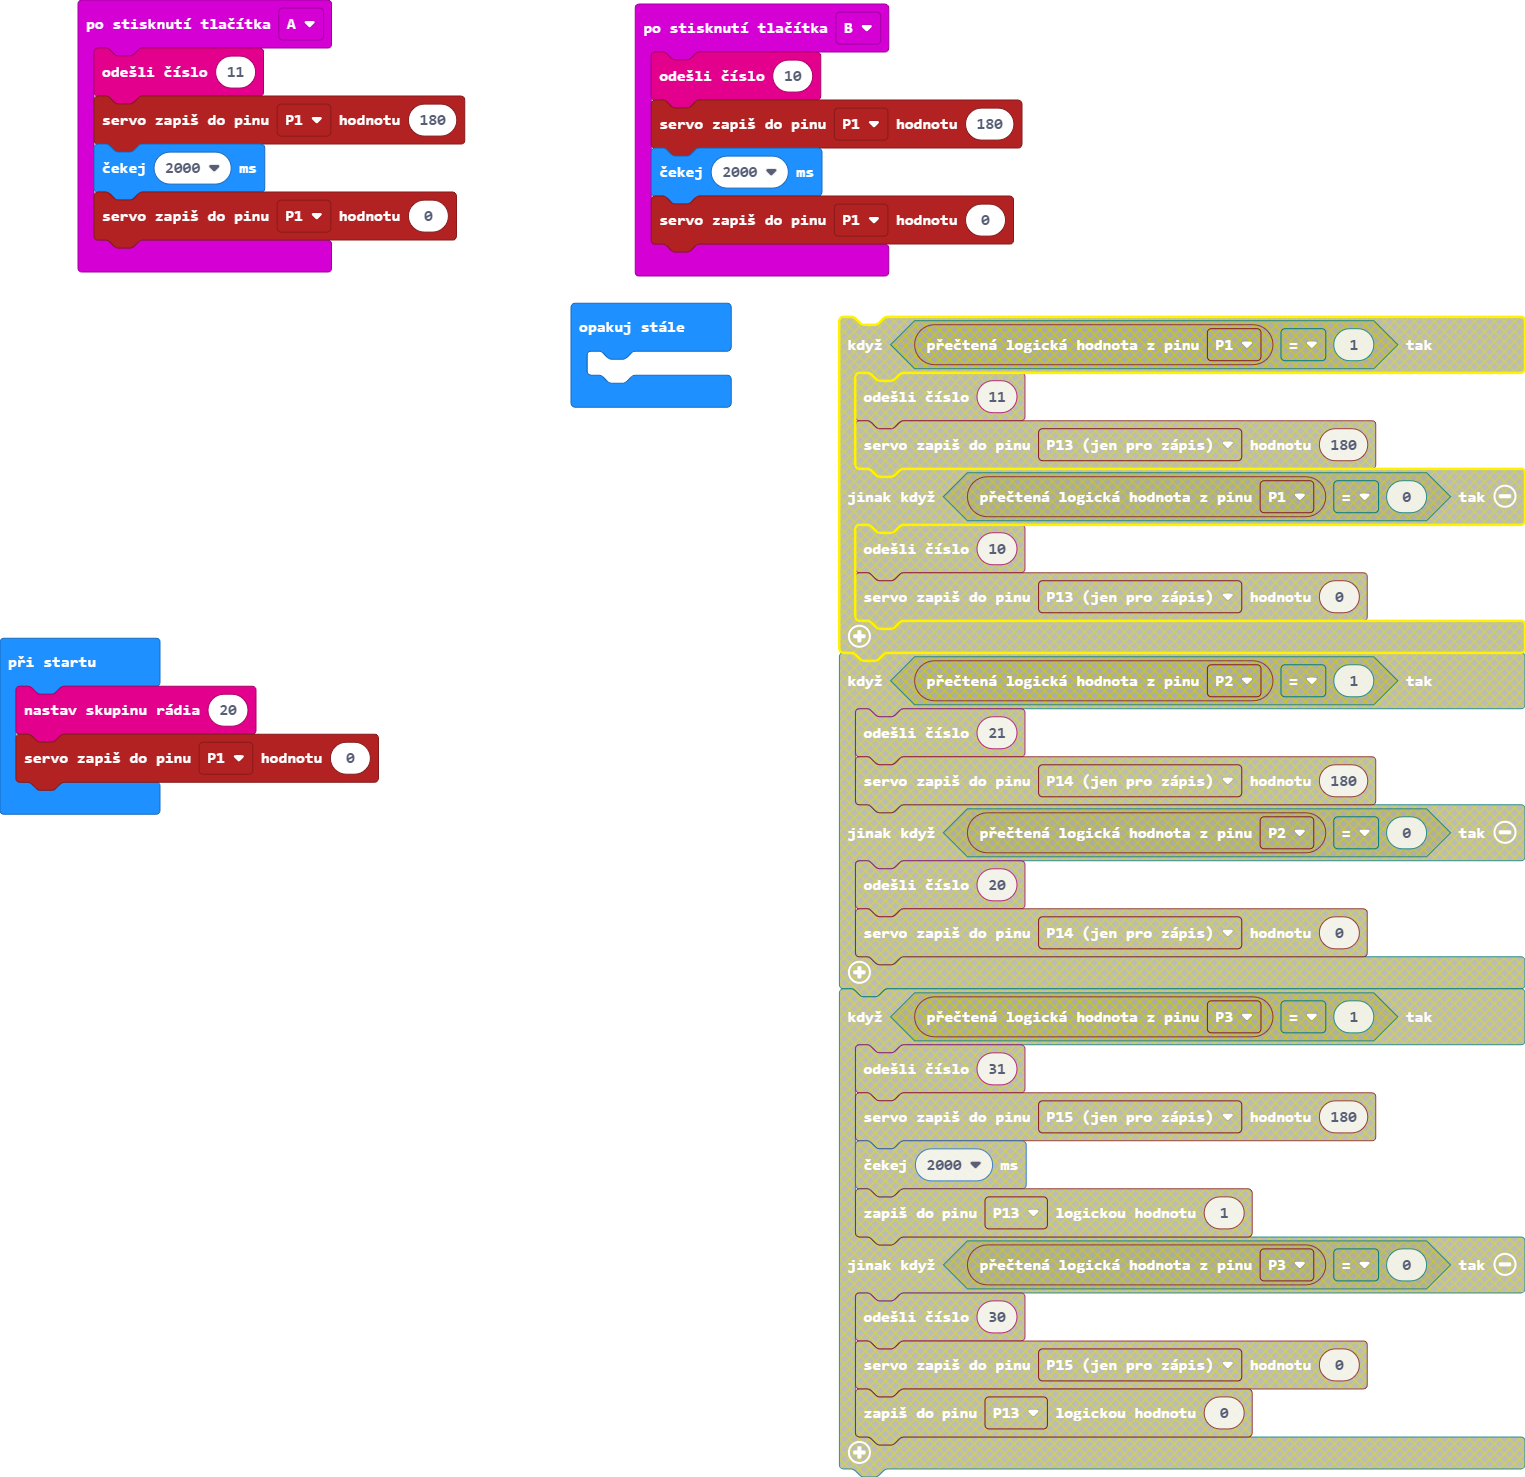
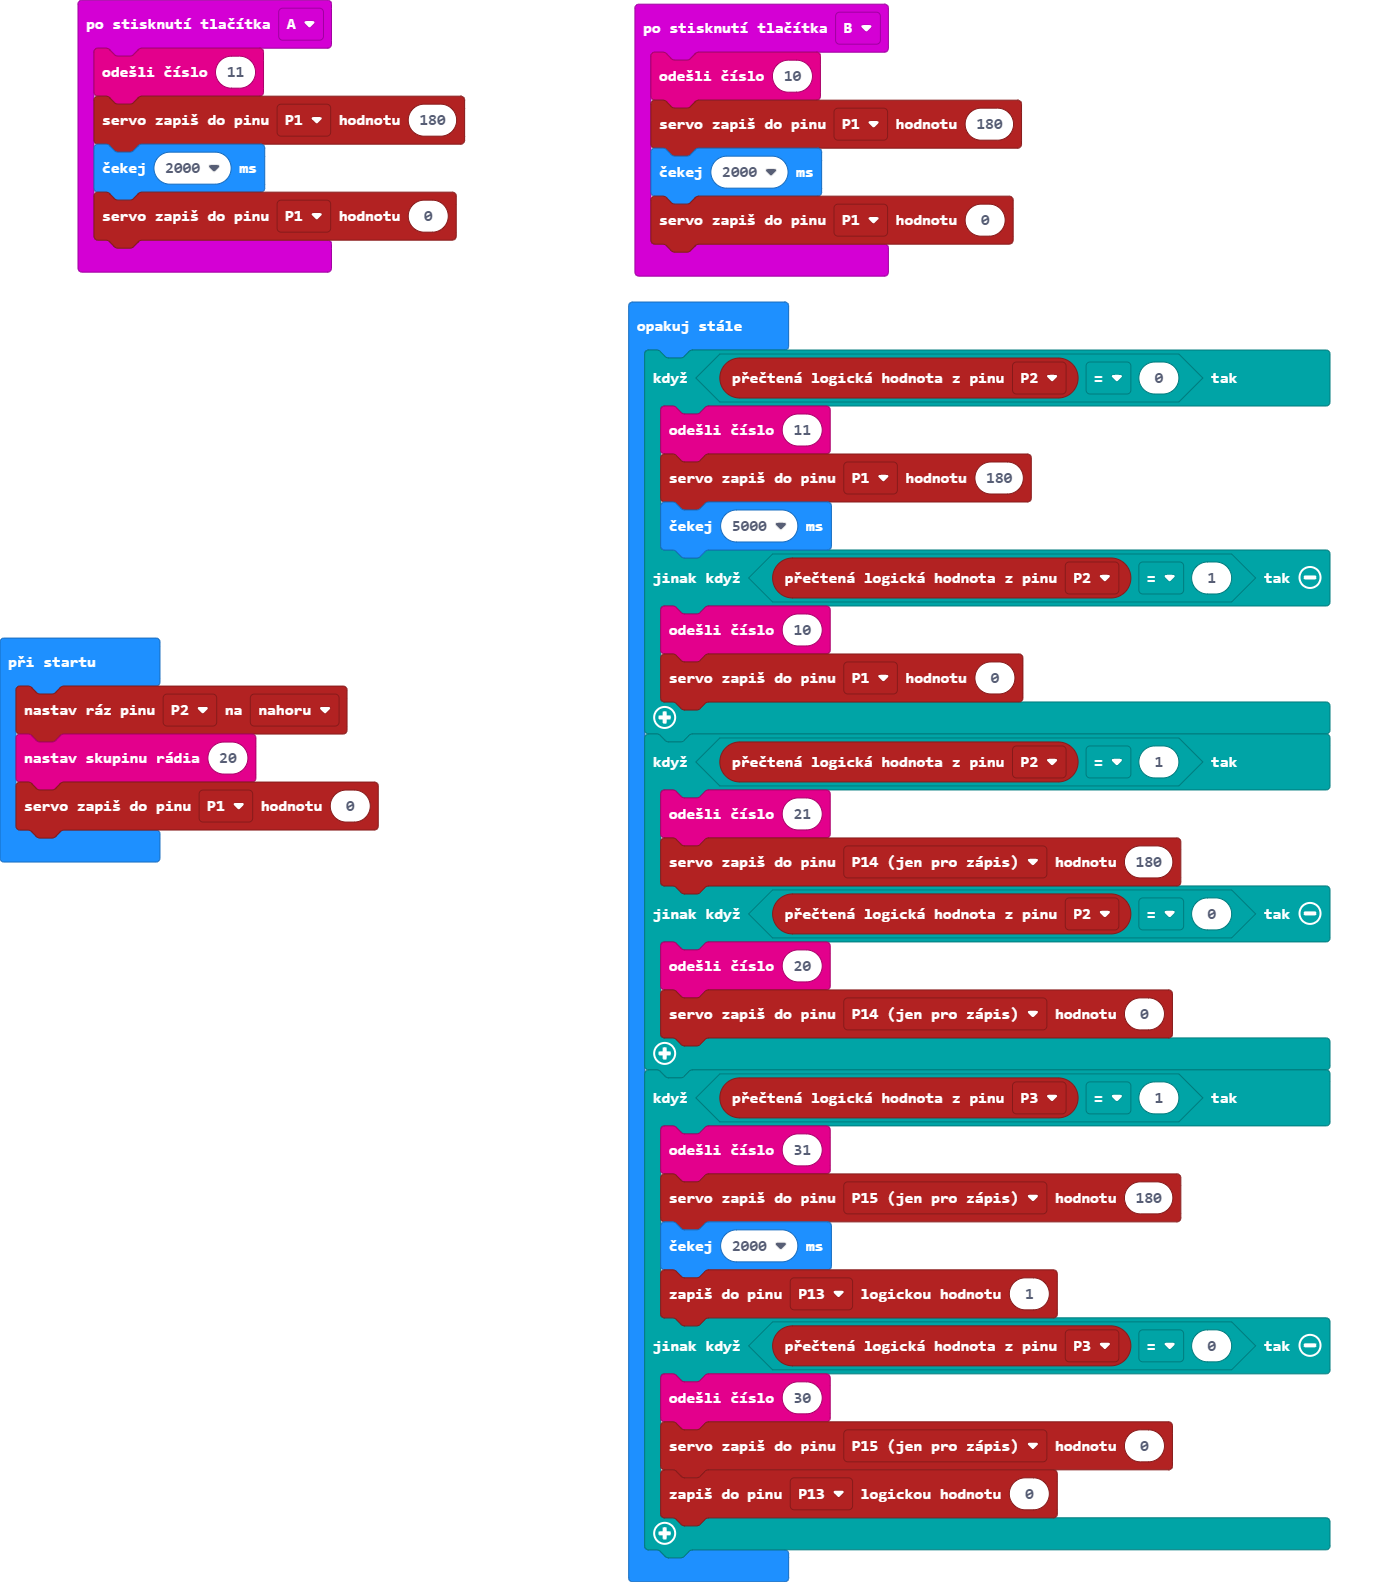
Aktualizovat pxt.json, main.blocks, main.ts

diff --git a/main.ts b/main.ts
@@ -10,8 +10,33 @@ input.onButtonPressed(Button.B, function () {
     basic.pause(2000)
     pins.servoWritePin(AnalogPin.P1, 0)
 })
+pins.setPull(DigitalPin.P2, PinPullMode.PullUp)
 radio.setGroup(20)
 pins.servoWritePin(AnalogPin.P1, 0)
 basic.forever(function () {
-	
+    if (pins.digitalReadPin(DigitalPin.P2) == 0) {
+        radio.sendNumber(11)
+        pins.servoWritePin(AnalogPin.P1, 180)
+        basic.pause(5000)
+    } else if (pins.digitalReadPin(DigitalPin.P2) == 1) {
+        radio.sendNumber(10)
+        pins.servoWritePin(AnalogPin.P1, 0)
+    }
+    if (pins.digitalReadPin(DigitalPin.P2) == 1) {
+        radio.sendNumber(21)
+        pins.servoWritePin(AnalogPin.P14, 180)
+    } else if (pins.digitalReadPin(DigitalPin.P2) == 0) {
+        radio.sendNumber(20)
+        pins.servoWritePin(AnalogPin.P14, 0)
+    }
+    if (pins.digitalReadPin(DigitalPin.P3) == 1) {
+        radio.sendNumber(31)
+        pins.servoWritePin(AnalogPin.P15, 180)
+        basic.pause(2000)
+        pins.digitalWritePin(DigitalPin.P13, 1)
+    } else if (pins.digitalReadPin(DigitalPin.P3) == 0) {
+        radio.sendNumber(30)
+        pins.servoWritePin(AnalogPin.P15, 0)
+        pins.digitalWritePin(DigitalPin.P13, 0)
+    }
 })
